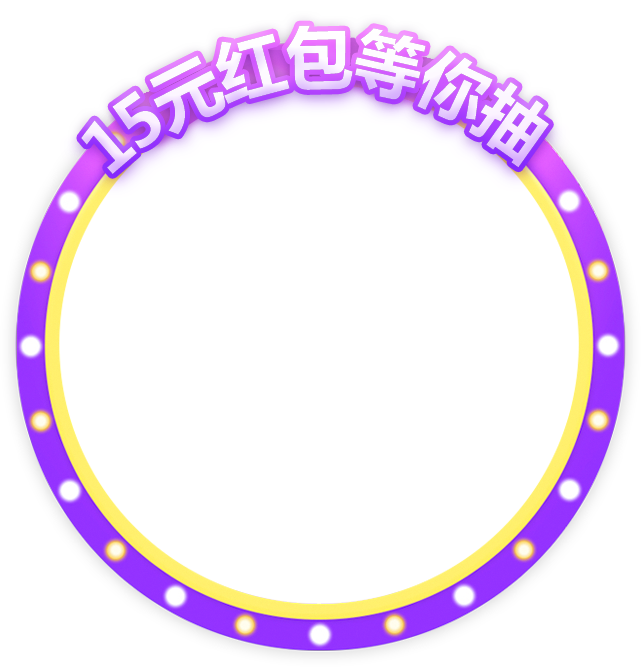
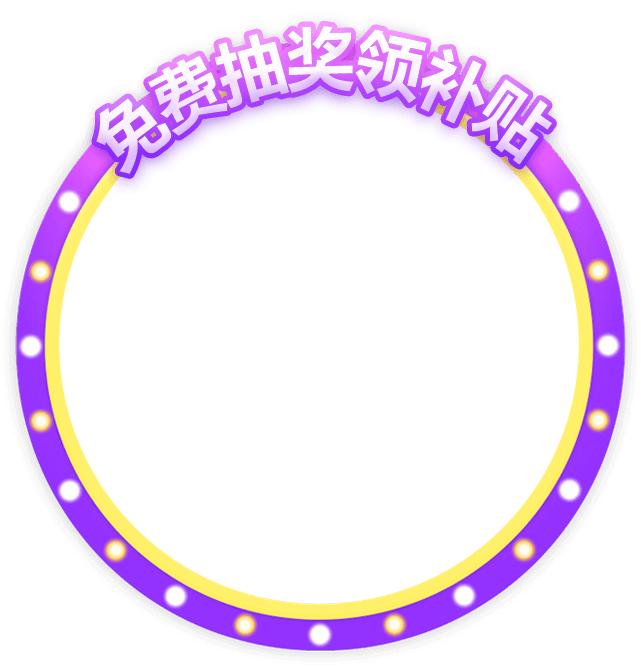
update max 6 point

Changed region(s): [[0.1248, 0.03, 0.8736, 0.2699]]

diff --git a/public/client/css/wheel-new.css b/public/client/css/wheel-new.css
@@ -455,3 +455,16 @@ footer {width: 100%;line-height: 24px;color:#ffb820;text-align: center;margin-to
         transform: rotate(360deg);
     }
 }
+
+.banner-rules {	
+    margin-left: auto;
+    margin-right: auto;
+    left: 0;
+    right: 0;
+    width: 2.6rem;
+    /* height: 0.91rem; */
+    margin-top: -0.8rem;
+    z-index: 300;
+    padding-top: 0.22rem;
+    position: absolute;
+}

diff --git a/resources/views/staradmin/client/productv2.blade.php b/resources/views/staradmin/client/productv2.blade.php
@@ -14,7 +14,7 @@
                                 <div class="line">
                                     <h3>
                                     	<span class="voucher-price">领券减{{number_format($v->voucher_price, 2) + 0}}元</span>
-                                    	<span class="draw-price">抽奖补贴15元</span>
+                                    	<span class="draw-price">抽奖补贴12元</span>
                                     </h3>
                                 </div>
                                 <div class="line">
@@ -46,7 +46,7 @@
                                 <div class="line">
                                     <h3>
                                     	<span class="voucher-price">领券减{{number_format($v->voucher_price,2) + 0}}元</span>
-                                    	<span class="draw-price">抽奖补贴15元</span>
+                                    	<span class="draw-price">抽奖补贴12元</span>
                                     </h3>
                                 </div>
                                 <div class="line">

diff --git a/resources/views/staradmin/client/productv2_detail.blade.php b/resources/views/staradmin/client/productv2_detail.blade.php
@@ -58,7 +58,7 @@
                 	</div>
                 	<img class="voucher-price-icon-minus" src="{{ asset('/client/images/icon-minus.png') }}" />
                 	<div class="draw-price">
-                		<span class="cur">￥<span class="price">15</span>
+                		<span class="cur">￥<span class="price">12</span>
                 		<div class="txt">抽奖补贴</div>
                 	</div>					
                 	<img class="new-price-icon-equal" src="{{ asset('/client/images/icon-equal.png') }}" />
@@ -102,7 +102,7 @@
 								  抽奖补贴说明
 								</div>
 								<div class="instructions">
-									<p>抽奖补贴由挖宝官方提供，新用户能免费获得1场次免费抽奖，通过抽奖可获得15元红包。</p>
+									<p>抽奖补贴由挖宝官方提供，新用户能免费获得2场次免费抽奖，通过抽奖可获得12元红包。</p>
 									<p>&nbsp;</p>
 									<p>用户可通过邀请好友，获得更多抽奖场次，从而获得更多购物红包。
 									</p>

diff --git a/resources/views/staradmin/client/game-node.blade.php b/resources/views/staradmin/client/game-node.blade.php
@@ -269,6 +269,7 @@
 					<div class="div-life">还剩<span class="span-life">15</span>次抽奖</div>
 					<div class="div-time"></div>
 				</div>
+				<img class="banner-rules" src="{{ asset('/client/images/wheel/banner-rules.png') }}" />
 		    </div>
 		</div>
 
